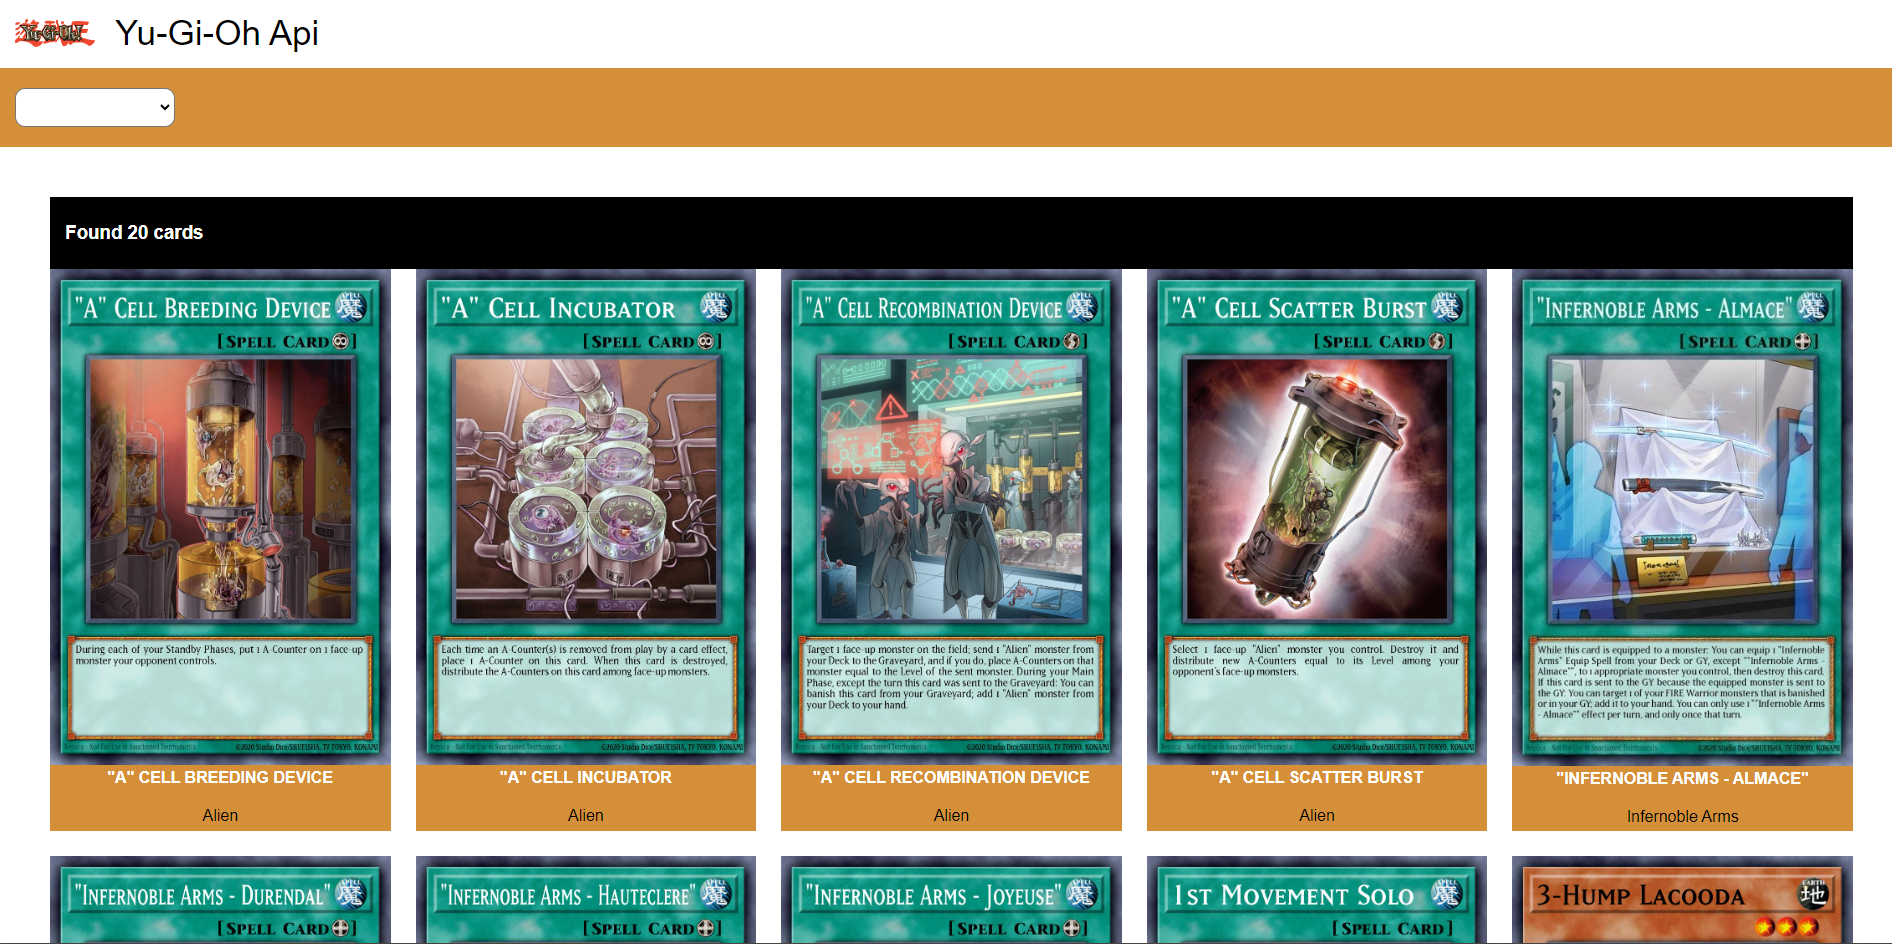
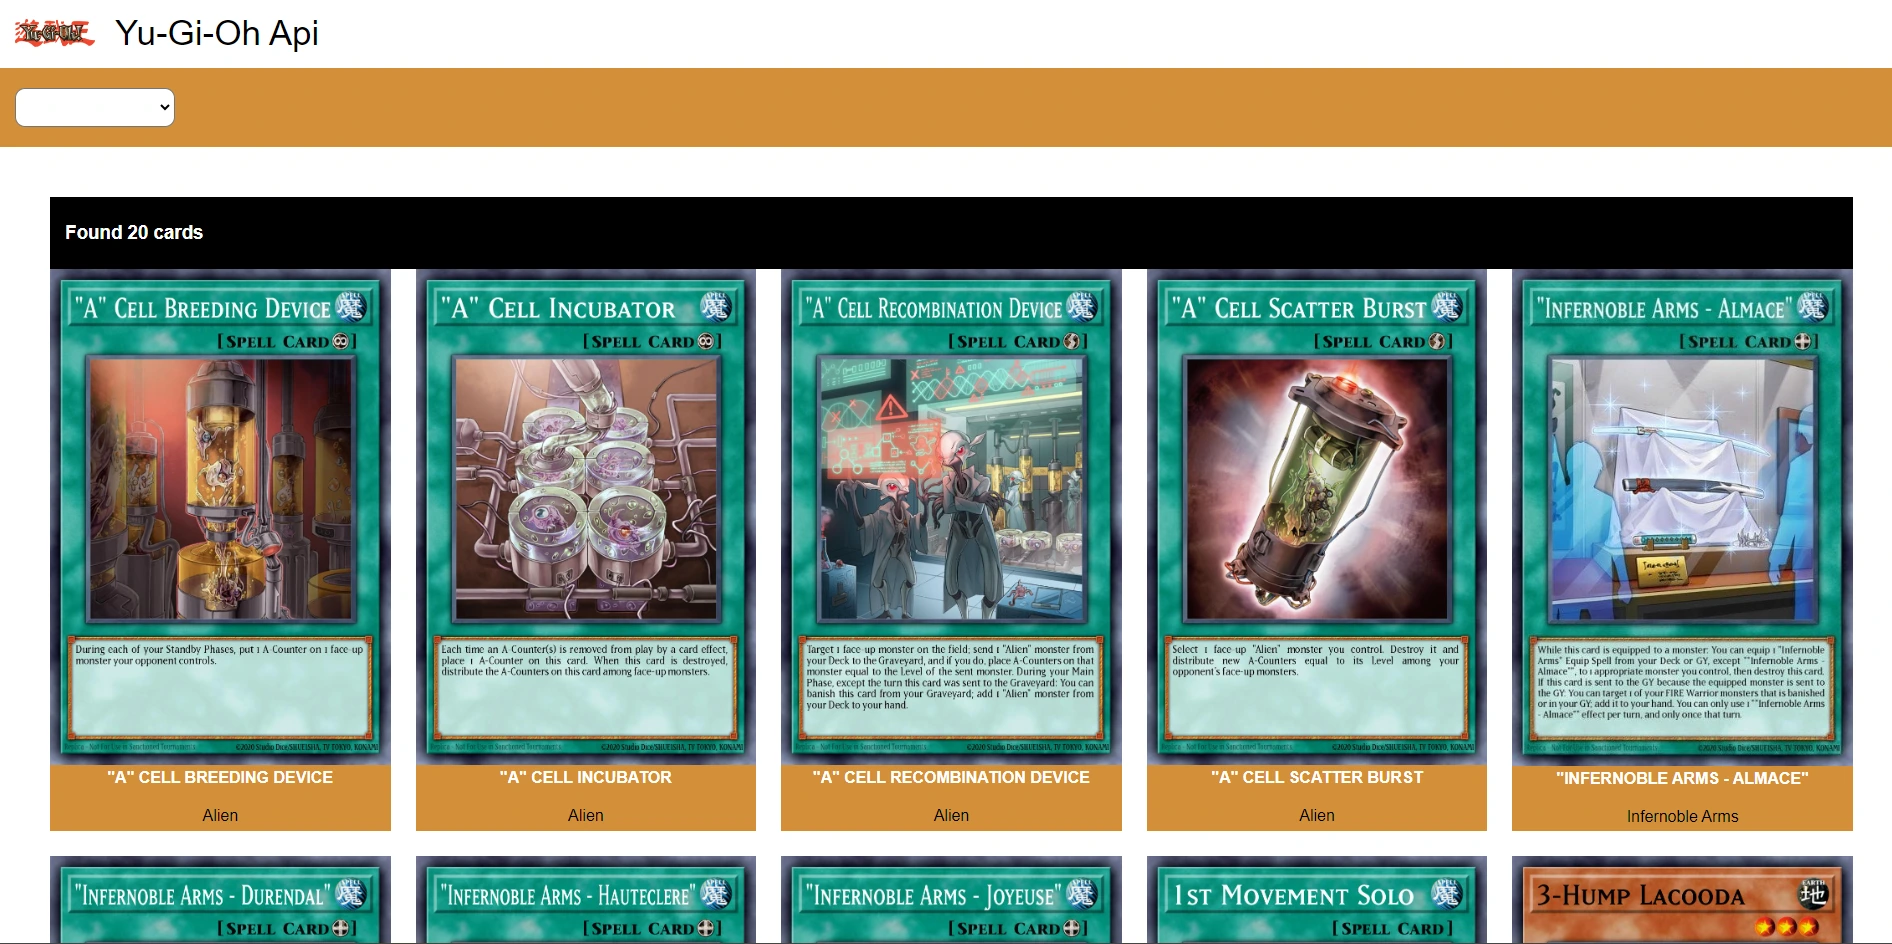
fixed format photos from png/jpg to webp

diff --git a/src/components/FrameworkSection.tsx b/src/components/FrameworkSection.tsx
@@ -16,33 +16,22 @@ export function FrameworkSection() {
     const getIndex = (offset: number) => (current + offset + logos.length) % logos.length;
 
     return (
-        <>
-             <section className="w-full relative flex flex-col items-center md:my-4">
-                <h1 className="text-white text-3xl whitespace-nowrap md:text-5xl text-center font-bold md:my-2 my-4">
-                    Competenze tecniche
-                </h1>
+        <section className="w-full relative flex flex-col items-center md:my-4">
+            <h1 className="text-white text-3xl whitespace-nowrap md:text-5xl text-center font-bold md:my-2 my-4">
+                Competenze tecniche
+            </h1>
 
-                <div className="flex justify-center items-center md:hidden h-32 overflow-hidden mt-6">
-                    <img
-                        src={logos[current]}
-                        alt={`logo ${current}`}
-                        className="max-h-32"
+            <div className="flex justify-center items-center md:hidden h-32 overflow-hidden mt-6">
+                <img src={logos[current]} alt={`logo ${current}`} className="max-h-32"/>
+            </div>
+
+            <div className="hidden md:flex justify-center items-center gap-12 h-48 overflow-hidden">
+                {[getIndex(-1), current, getIndex(1)].map((index, i) => (
+                    <img key={index} src={logos[index]} alt={`logo ${index}`} className={`transition-all duration-100 ease-in-out
+                        ${i === 1 ? "scale-110 z-10 opacity-100" : "scale-60 opacity-50"} max-h-24 max-w-24`}
                     />
-                </div>
-
-                <div className="hidden md:flex justify-center items-center gap-12 h-48 overflow-hidden">
-                    {[getIndex(-1), current, getIndex(1)].map((index, i) => (
-                        <img
-                            key={index}
-                            src={logos[index]}
-                            alt={`logo ${index}`}
-                            className={`transition-all duration-100 ease-in-out
-                                ${i === 1 ? "scale-110 z-10 opacity-100" : "scale-60 opacity-50"}
-                                max-h-24 max-w-24`}
-                        />
-                    ))}
-                </div>
-            </section>
-        </>
+                ))}
+            </div>
+        </section>
     );
 }

diff --git a/src/components/Jumbotron.tsx b/src/components/Jumbotron.tsx
@@ -2,7 +2,7 @@ import { useEffect, useState } from "react";
 import { FontAwesomeIcon } from '@fortawesome/react-fontawesome';
 import { faGithub, faLinkedinIn } from '@fortawesome/free-brands-svg-icons';
 import { faDownload, faEnvelope } from '@fortawesome/free-solid-svg-icons';
-import PierluigiPapa from '../assets/PierluigiPapa.png'
+import PierluigiPapa from '../assets/PierluigiPapa.webp'
 
 
 export function Jumbotron() {

diff --git a/src/utility/ImageProject.ts b/src/utility/ImageProject.ts
@@ -1,5 +1,5 @@
-import BoolBnb from "../assets/images/projects/BoolBnB.png";
-import CardPokemon from "../assets/images/projects/Card_Pokemon.png";
+import BoolBnb from "../assets/images/projects/BoolBnB.webp";
+import CardPokemon from "../assets/images/projects/Card_Pokemon.webp";
 import MasterStudy from "../assets/images/projects/MasterStudy.webp";
 import YuGiOh from "../assets/images/projects/Yu_Gi_Oh.webp";
 

diff --git a/src/components/Header.tsx b/src/components/Header.tsx
@@ -2,7 +2,7 @@ import { Link } from "react-router-dom";
 import { useState } from "react";
 import { faBars } from "@fortawesome/free-solid-svg-icons/faBars";
 import { FontAwesomeIcon } from "@fortawesome/react-fontawesome";
-import Logo  from "../assets/Logo.png"
+import Logo  from "../assets/Logo.webp"
 
 
 export function Header() {

diff --git a/src/components/Footer.tsx b/src/components/Footer.tsx
@@ -1,6 +1,6 @@
 import { faArrowUp } from '@fortawesome/free-solid-svg-icons';
 import { FontAwesomeIcon } from '@fortawesome/react-fontawesome';
-import Logo from '../assets/Logo.png';
+import Logo from '../assets/Logo.webp';
 
 export function Footer() {
   const showBoolean = () => {
